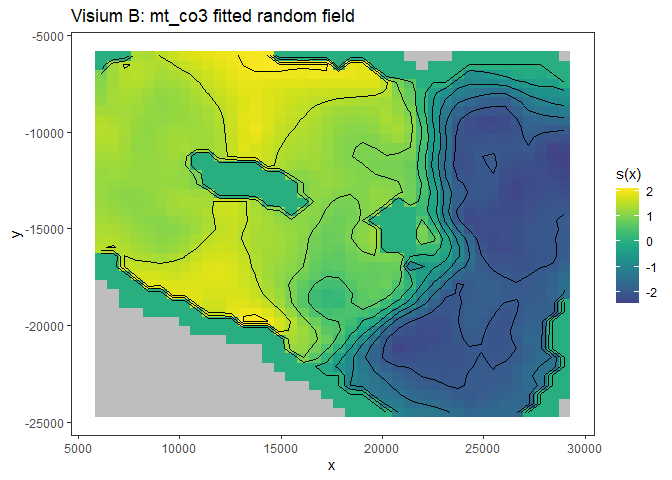
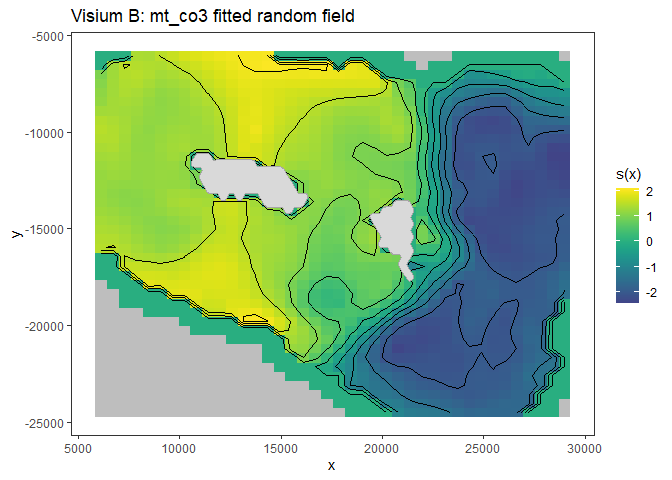
Mask Visium boundary holes in README field plot

Changed region(s): [[0.2812, 0.3125, 0.4688, 0.4375], [0.5312, 0.4062, 0.625, 0.5938]]

diff --git a/README.md b/README.md
@@ -250,18 +250,37 @@ data.frame(
 
 ``` r
 viz_visium <- getViz(fit_visium_mtco3)
+visium_rings <- sf::st_geometry(
+  Visium_B$meshes$spdePC_g999$domain.original
+)[[1L]]
+visium_holes <- do.call(rbind, lapply(
+  seq_along(visium_rings[-1L]),
+  function(i) data.frame(
+    x = visium_rings[[i + 1L]][, 1L],
+    y = visium_rings[[i + 1L]][, 2L],
+    hole = i
+  )
+))
 p_visium <- plot(sm(viz_visium, 1L)) +
   l_fitRaster() + l_fitContour() +
+  ggplot2::geom_polygon(
+    data = visium_holes,
+    mapping = ggplot2::aes(x = x, y = y, group = hole),
+    inherit.aes = FALSE, fill = "grey85", colour = "grey65",
+    linewidth = 0.25, show.legend = FALSE
+  ) +
   ggplot2::labs(title = "Visium B: mt_co3 fitted random field")
 print(p_visium)
 ```
 
 <div class="figure">
 
-<img src="README_files/figure-gfm/visium-random-field-1.png" alt="Fitted spatial random field for mt_co3 in Visium B."  />
+<img src="README_files/figure-gfm/visium-random-field-1.png" alt="Fitted spatial random field for mt_co3 in Visium B, with the two excluded interior holes shown in grey."  />
 <p class="caption">
 
-Visium B mt_co3 fitted PC-truncated SPDE random field from mgcViz.
+Visium B mt_co3 fitted PC-truncated SPDE random field from mgcViz. Grey
+polygons are the two interior holes excluded by the manual SPDE
+boundary.
 </p>
 
 </div>
